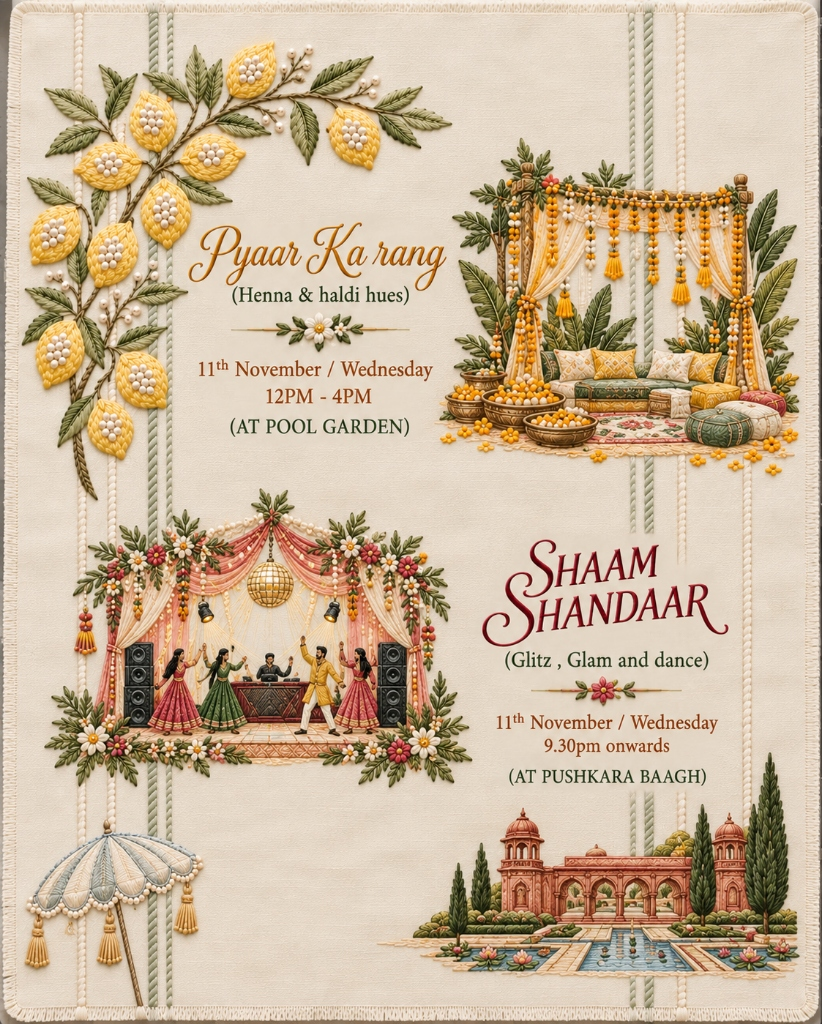
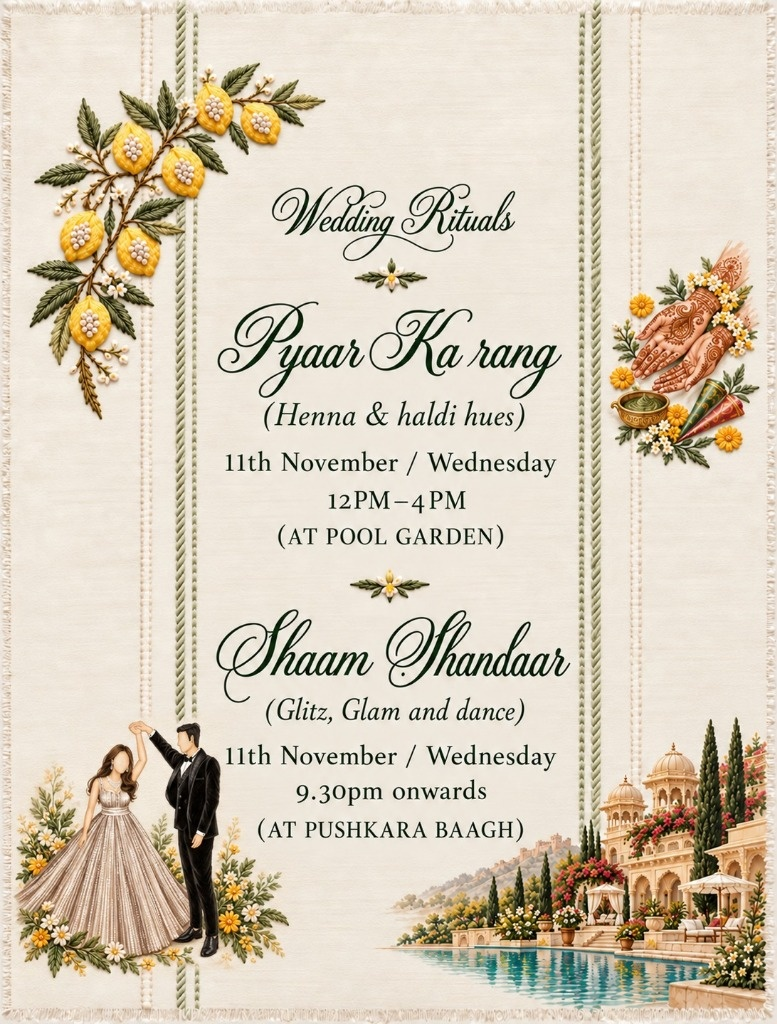
Update Day 1 itinerary image with new card artwork

diff --git a/scripts/snap_itinerary.js b/scripts/snap_itinerary.js
@@ -1,0 +1,72 @@
+const http = require('http');
+const handler = require('../server.js');
+const { spawn } = require('child_process');
+const fs = require('fs');
+
+const server = http.createServer(handler);
+server.listen(3004, () => {
+  const chromePath = 'C:\\Program Files\\Google\\Chrome\\Application\\chrome.exe';
+  const userDataDir = 'd:\\b8\\scratch_chrome_itin';
+  const chrome = spawn(chromePath, [
+    '--headless=new',
+    '--remote-debugging-port=9577',
+    '--user-data-dir=' + userDataDir,
+    '--no-first-run',
+    '--no-default-browser-check',
+    '--disable-gpu',
+    '--window-size=412,915',
+    'http://localhost:3004'
+  ]);
+
+  setTimeout(async () => {
+    try {
+      const listRes = await fetch('http://127.0.0.1:9577/json');
+      const tabs = await listRes.json();
+      const ws = new WebSocket(tabs.find(t=>t.type==='page').webSocketDebuggerUrl);
+
+      ws.onopen = () => {
+        ws.send(JSON.stringify({
+          id: 1,
+          method: 'Runtime.evaluate',
+          params: {
+            expression: `
+              (() => {
+                const fixed = Array.from(document.querySelectorAll('.fixed'));
+                fixed.forEach(el => el.remove());
+                document.body.style.overflow = 'auto';
+                const el = document.getElementById('itinerary');
+                if (el) el.scrollIntoView();
+              })()
+            `
+          }
+        }));
+
+        setTimeout(() => {
+          ws.send(JSON.stringify({
+            id: 2,
+            method: 'Page.captureScreenshot',
+            params: { format: 'png' }
+          }));
+        }, 1200);
+      };
+
+      ws.onmessage = (event) => {
+        const msg = JSON.parse(event.data);
+        if (msg.id === 2) {
+          fs.writeFileSync('d:/b8/scratch_itinerary_snap.png', Buffer.from(msg.result.data, 'base64'));
+          console.log('Saved itinerary screenshot to d:/b8/scratch_itinerary_snap.png');
+          ws.close();
+          chrome.kill();
+          server.close();
+          try { fs.rmSync(userDataDir, { recursive: true, force: true }); } catch(e){}
+          process.exit(0);
+        }
+      };
+    } catch(e) {
+      console.error('Error:', e);
+      chrome.kill();
+      server.close();
+      process.exit(1);
+    }
+  }, 2500);
+});
